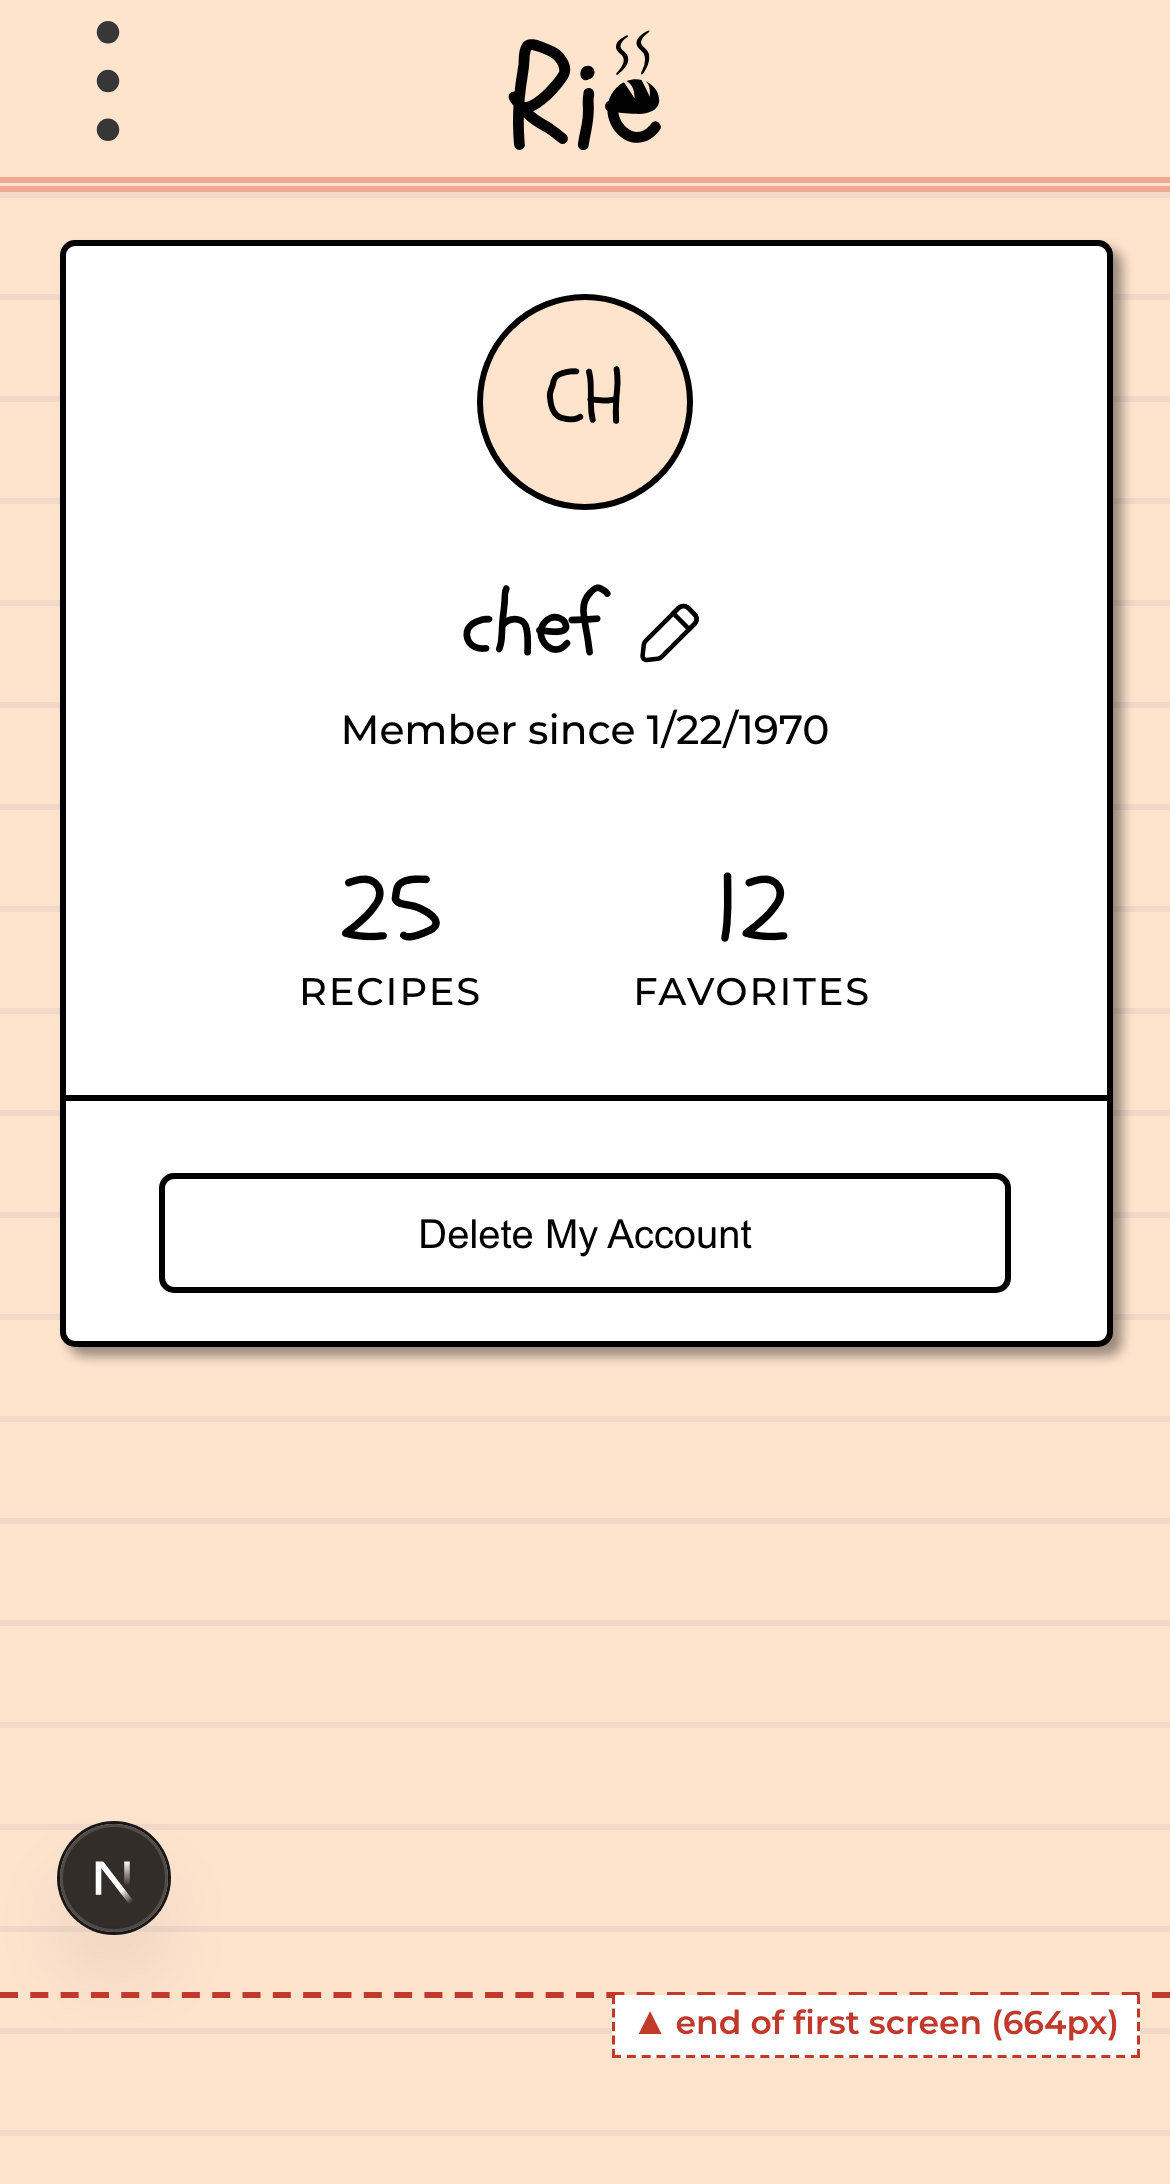
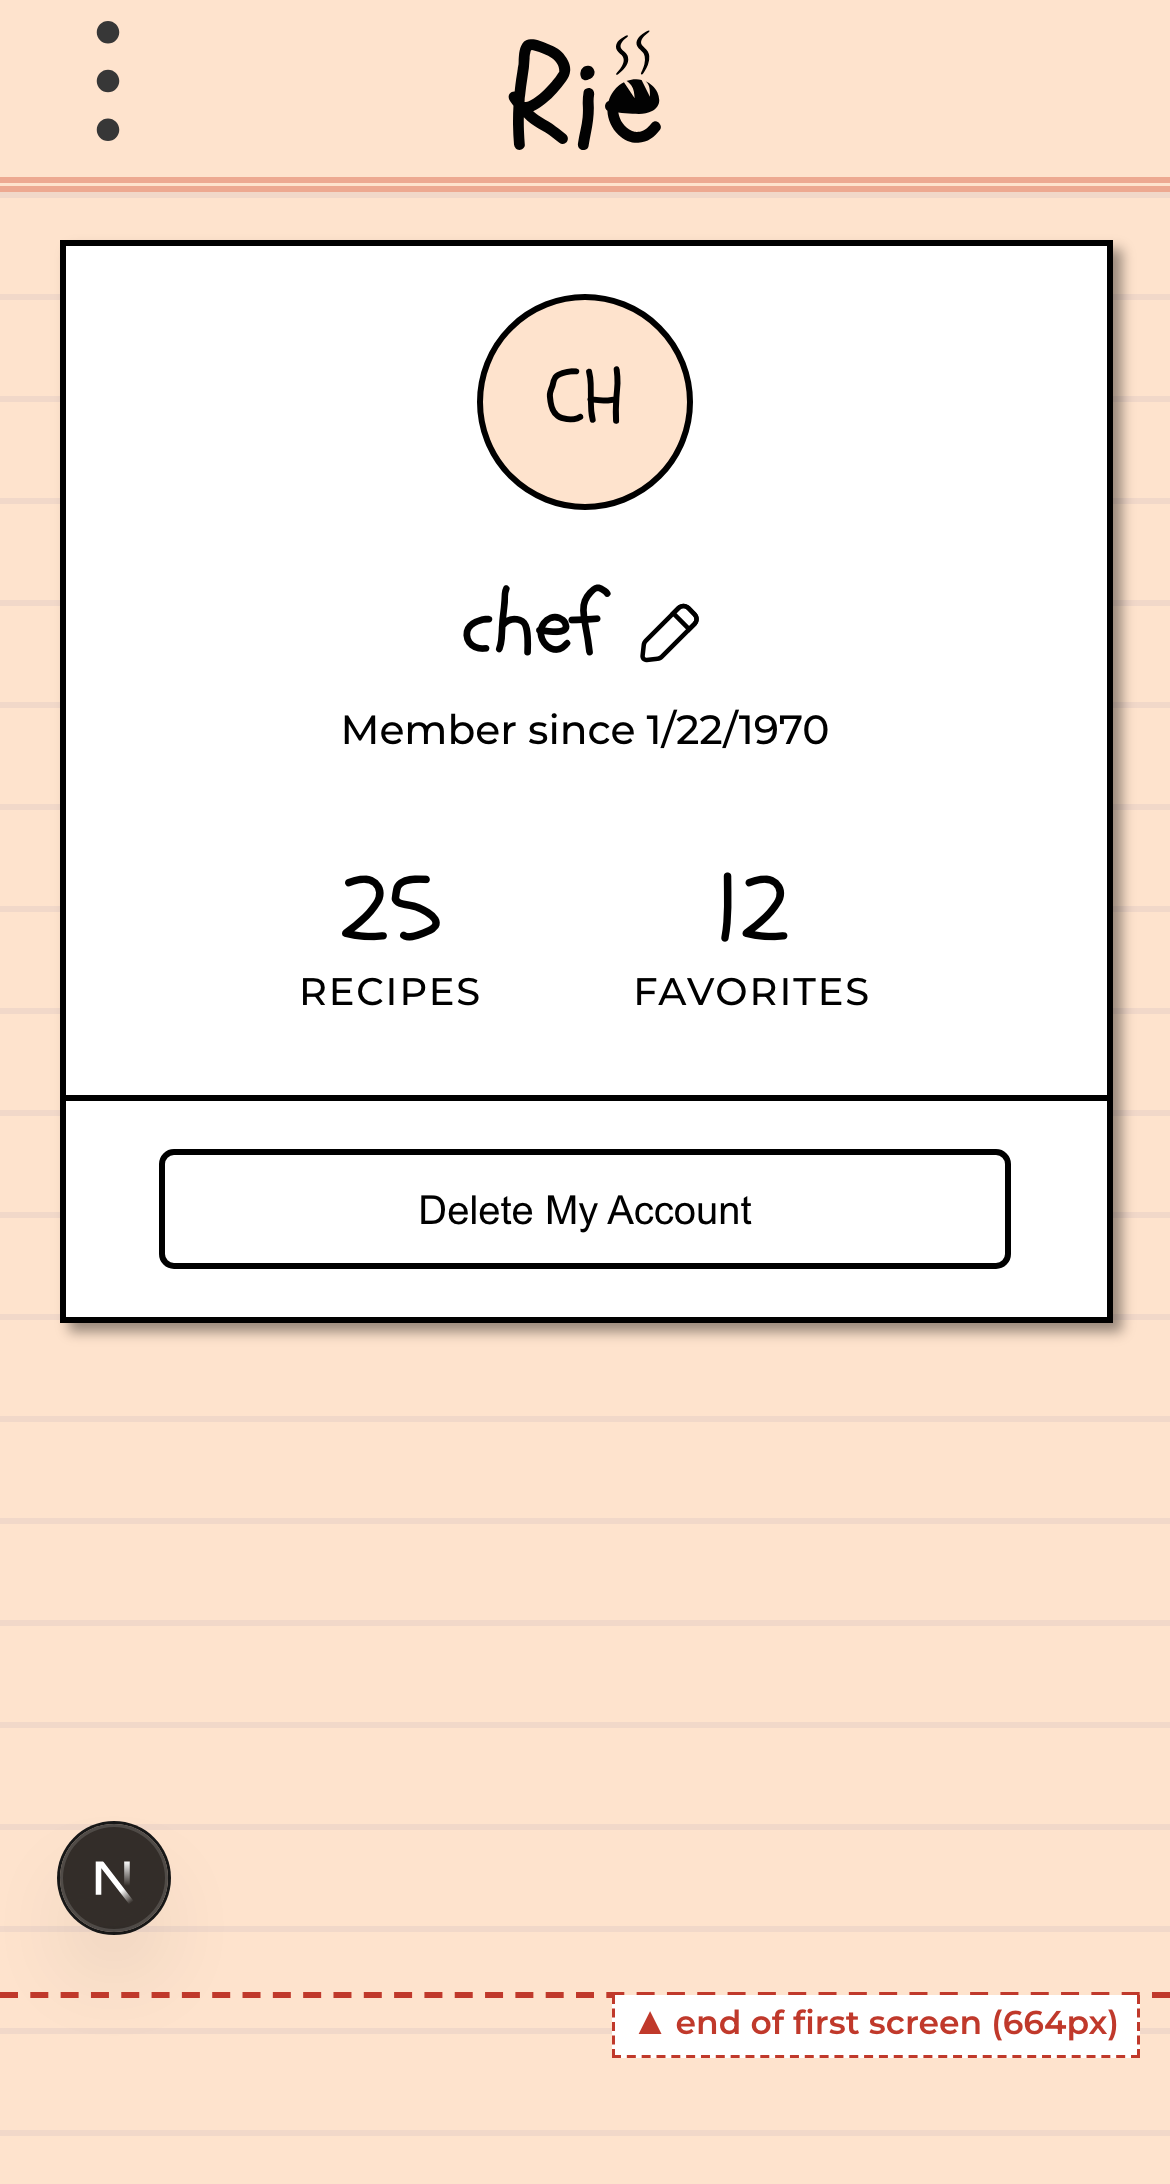
Balance card rule spacing and square off card corners
The footer row inside a card had 1.5rem of padding above it and 2rem
below, and the fields above the rule were separated from it by the form's
own gap on top of their inset — so the space above the rule was double the
space below it.

- CardRule pads one inset on all sides instead of space-lg top /
  card-padding bottom.
- Form drops the gap between the fields and the rule, so the fields inset
  and the rule meet: 32px above the rule, 32px below (16px on mobile).
- Cards are squared off; popups are the only rounded surface, via the new
  --popup-radius token used by Dialog.

Changed region(s): [[0.0308, 0.5293, 0.9538, 0.6227]]

diff --git a/src/components/Card/card.module.css b/src/components/Card/card.module.css
@@ -1,3 +1,5 @@
+/* The card is squared off on purpose: only popups (`Dialog`) round their
+   corners, so a card and the page it sits on read as one surface. */
 .card {
 	/* The inset every section of a card measures against. Sections take it as
 	   their padding and full-width rules use it to re-inset their contents, so a
@@ -10,7 +12,7 @@
 	--rule-subtle-color: #98b8e4;
 
 	border: 2px solid #000;
-	border-radius: 5px;
+	border-radius: 0;
 	box-shadow: 3px 3px 4px #00000066;
 	background-color: white;
 }

diff --git a/src/components/Card/cardRule.module.css b/src/components/Card/cardRule.module.css
@@ -1,5 +1,6 @@
+/* The rule closes a card, so the row it holds breathes the same distance from
+   the rule above it as from the card's bottom edge — one inset, all sides. */
 .cardRule {
 	border-top: 2px solid var(--rule-color, #000);
-	padding: var(--space-lg) var(--card-padding, var(--space-xl))
-		var(--card-padding, var(--space-xl));
+	padding: var(--card-padding, var(--space-xl));
 }

diff --git a/src/app/globals.css b/src/app/globals.css
@@ -180,6 +180,8 @@ p {
 	--default-background-color: #fee3cd;
 	--separator-color: #eda991;
 	--error-color: #b91c1c;
+	/* The only rounded surface in the app: popups (`Dialog`) round, cards don't. */
+	--popup-radius: 5px;
 	--link-selected-color: #0000a6;
 	--link-selected-color-svg: invert(15%) sepia(21%) saturate(6667%)
 		hue-rotate(224deg) brightness(122%) contrast(153%)

diff --git a/src/components/Form/form.module.css b/src/components/Form/form.module.css
@@ -7,10 +7,12 @@
 	max-width: 56rem;
 }
 
+/* No gap between the fields and the rule: the fields already end on their own
+   inset, and the rule carries the same one, so the whitespace above the rule
+   matches the whitespace below it. A gap here would double the top half. */
 .form {
 	display: flex;
 	flex-direction: column;
-	gap: var(--space-xl);
 }
 
 .fields {

diff --git a/src/components/Dialog/dialog.module.css b/src/components/Dialog/dialog.module.css
@@ -1,5 +1,8 @@
+/* A popup is the one surface that rounds its corners — everything else (cards,
+   fields, buttons) stays squared off. The radius lives in a token so a dialog
+   never drifts from that rule. */
 .dialog {
 	border: 2px solid #000;
-	border-radius: 5px;
+	border-radius: var(--popup-radius);
 	box-shadow: 3px 3px 4px #00000066;
 }
